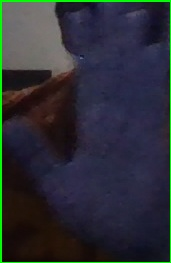
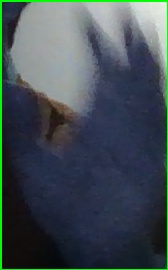
img_crop logic improved

diff --git a/main.py b/main.py
@@ -80,8 +80,12 @@ _, frame = cap.read()
 h, w, c = frame.shape
 
 #print(h,w)
+cropped_images = []
+
 
 while True:
+    if len(cropped_images)> 100:
+        cropped_images = []
     if keyboard.is_pressed('q'):  # Change 'q' to the desired key
         break
     _, frame = cap.read()
@@ -111,21 +115,25 @@ while True:
             
             start =time.time()
             
-            img_crop=frame[y_min-15:y_max+15,x_min-15:x_max+15]
+            img_crop= frame[y_min-15:y_max+15,x_min-15:x_max+15]
+            img_crop = Image.fromarray(np.uint8(img_crop))
+            #print('before',img_crop)
+            #cropped_images.append(img_crop[0])
             
-            try:
-                img_crop = cv2.cvtColor(img_crop,cv2.COLOR_BGR2RGB)
-                
-            except:
-                #print("Next entry.")
-                continue
-
-                
-            cv2.imwrite('img_crop/' + 'crp' + '.jpg', img_crop)
-            address = r'img_crop\crp.jpg'
-            Images = glob.glob(address)
-            
-            img_crop = Image.open(Images[0]).convert("RGB")
+            #try:
+            #    img_crop = cv2.cvtColor(img_crop,cv2.COLOR_BGR2RGB)
+            #    
+            #except:
+            #    #print("Next entry.")
+            #    continue
+            #    
+            #cv2.imwrite('img_crop/' + 'crp' + '.jpg', img_crop)
+            #address = r'img_crop\crp.jpg'
+            #Images = glob.glob(address)
+            #
+            #img_crop = Image.open(Images[0]).convert("RGB")
+            #print("after",img_crop)
+            #img_crop = cropped_images[0].resize((150, 150))
             img_crop = img_crop.resize((150, 150))
             img_crop = np.array(img_crop)
             img_crop = np.array(img_crop, dtype='float32')
